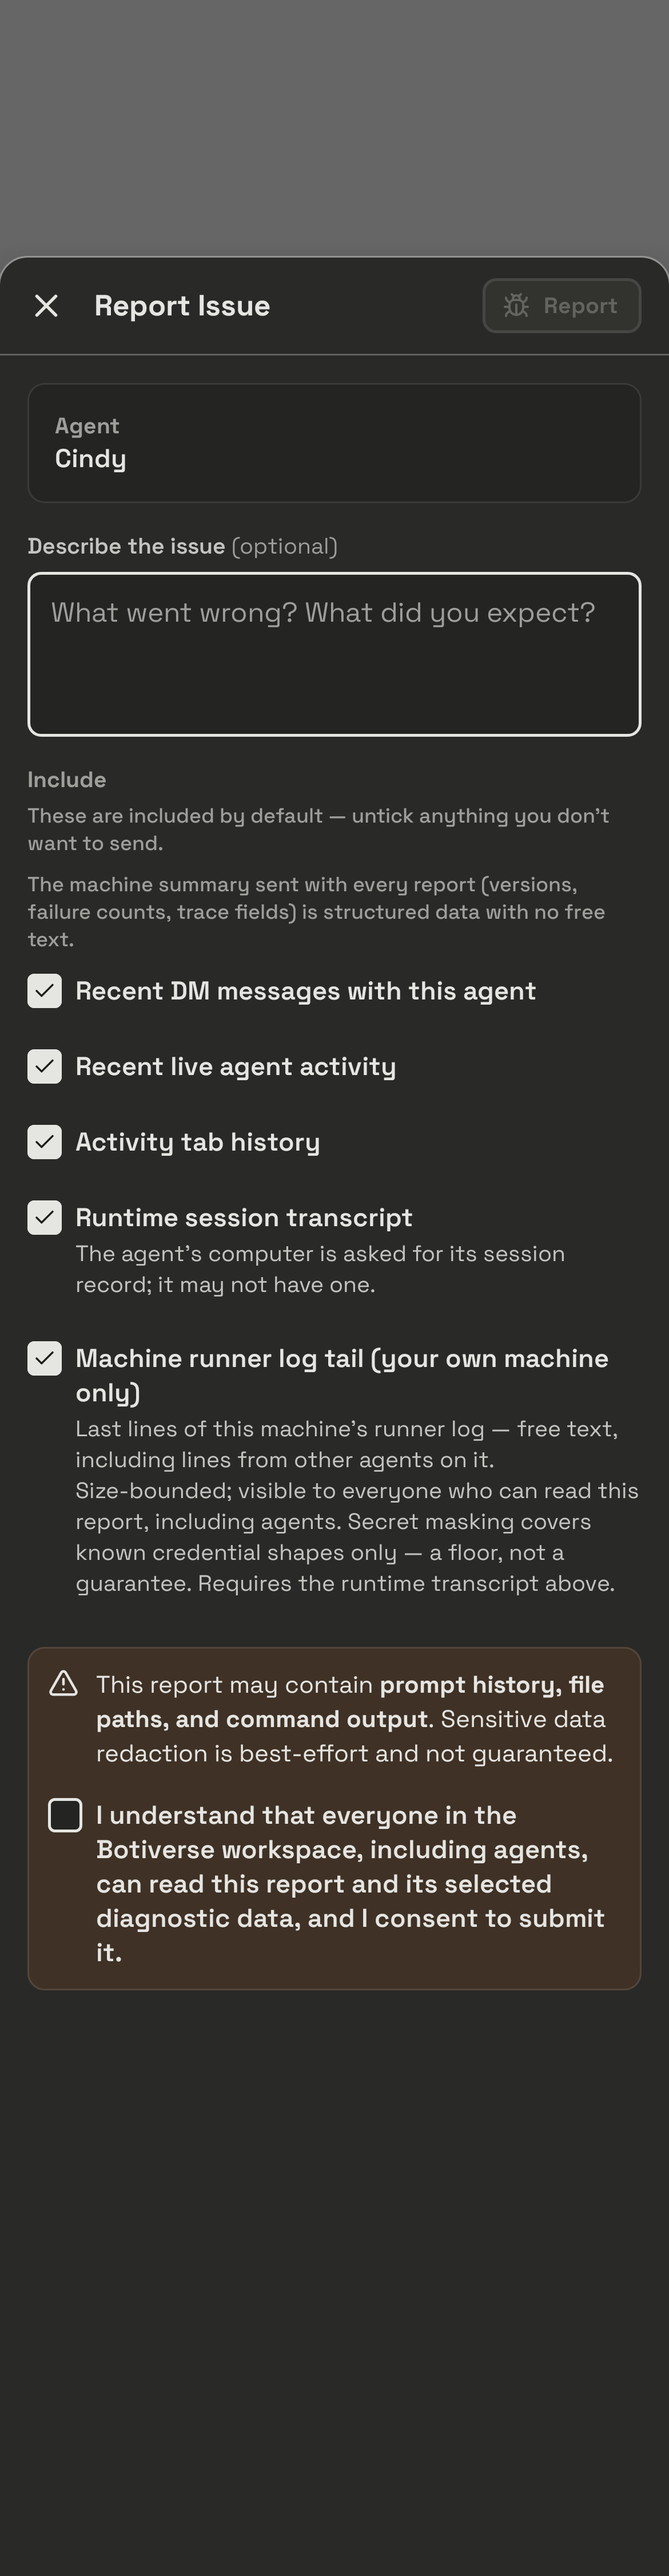
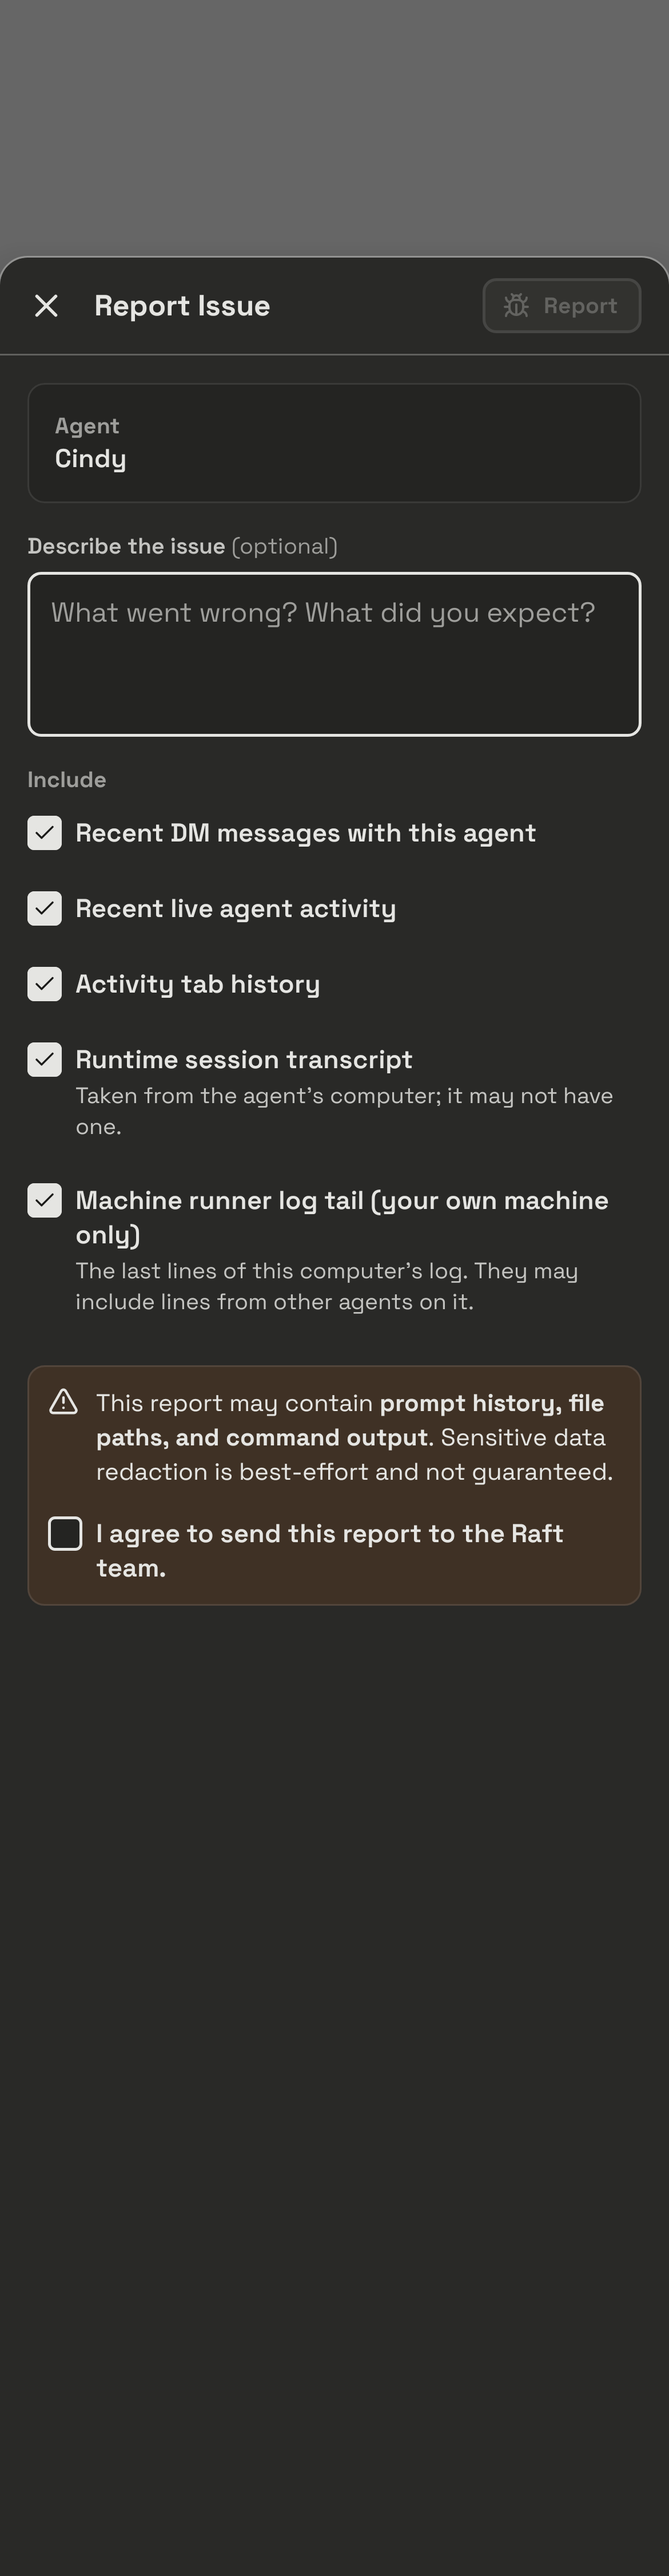
test: record goldens from CI; changeset PR number

Changed region(s): [[0.0308, 0.3111, 0.9231, 0.6222], [0.1538, 0.6533, 0.9231, 0.7778], [0.0923, 0.6844, 0.1231, 0.7156]]

diff --git a/change-logs/1.24.0/changesets/report-issue-goes-to-raft-team.md b/change-logs/1.24.0/changesets/report-issue-goes-to-raft-team.md
@@ -4,7 +4,7 @@ area: members
 platforms:
   - android
   - ios
-pull_request: 0
+pull_request: 4597
 rollout: full
 ---
 
